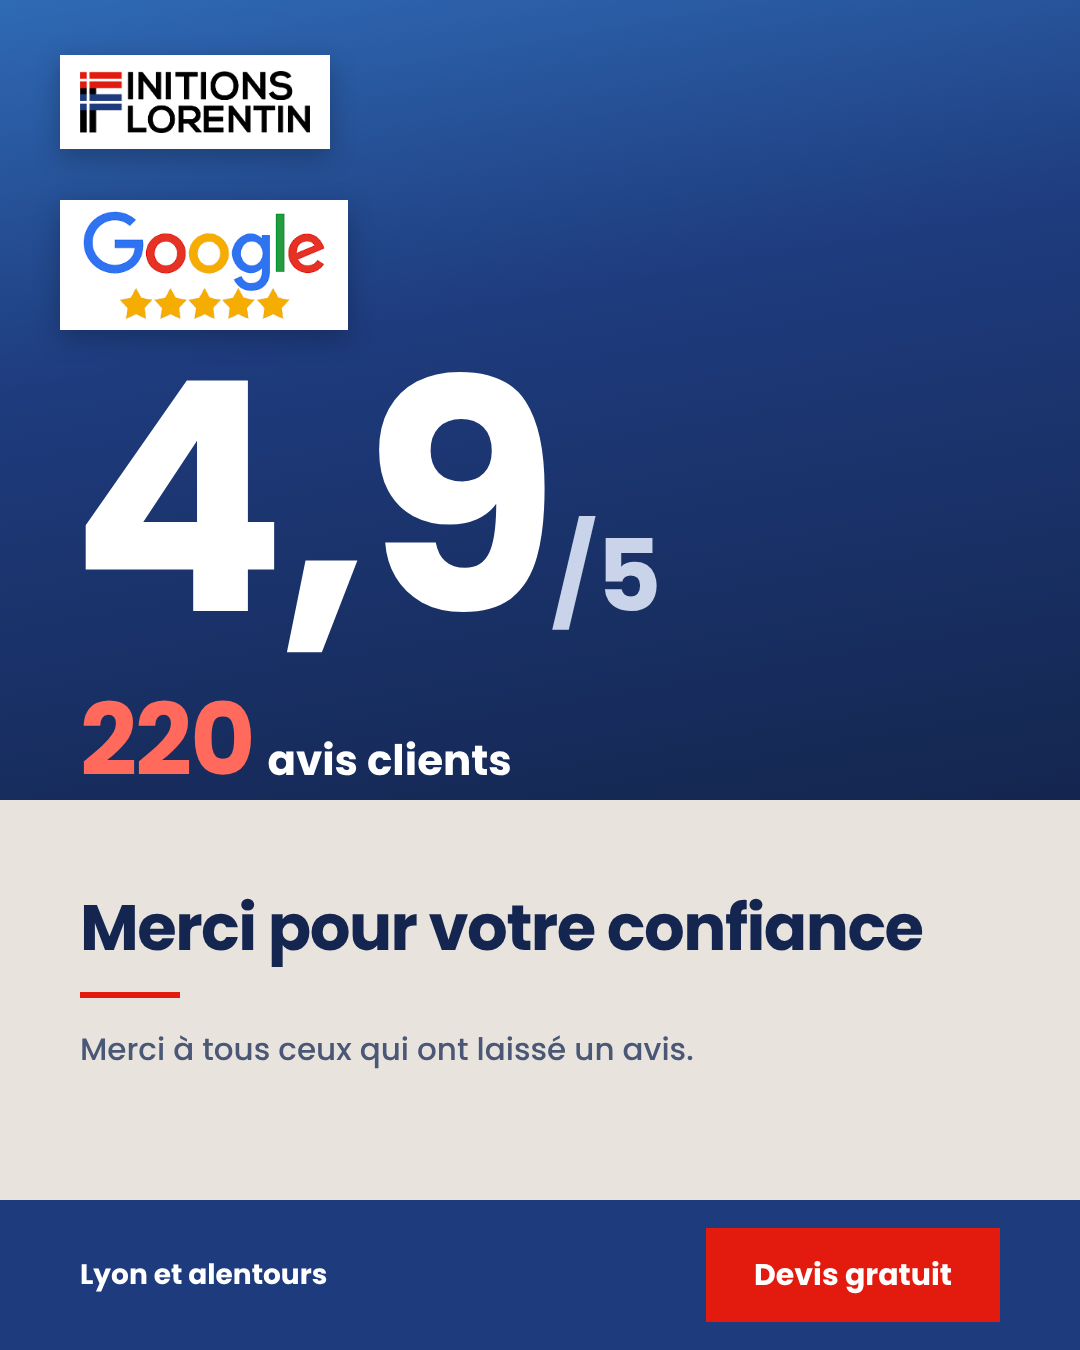
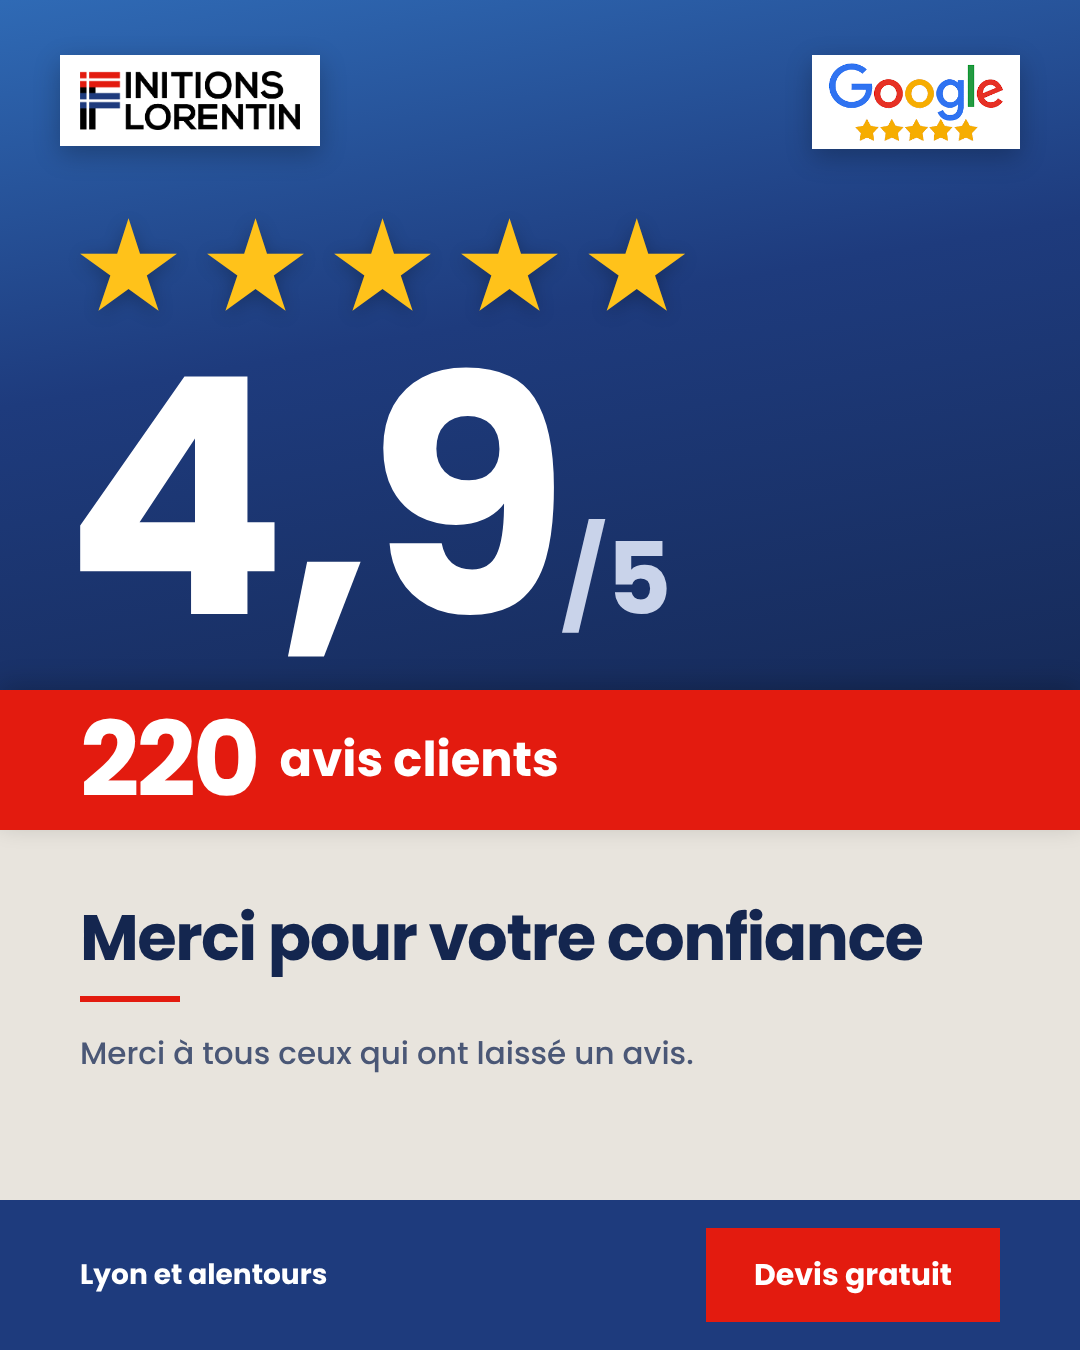
Note Google: bandeau rouge 220 avis, pas de version Google
Claude-Session: https://claude.ai/code/session_01LyxsXe8xqb1EZ7c4QQAmih

diff --git a/tools/note_google_plain.py b/tools/note_google_plain.py
@@ -18,23 +18,29 @@ base=f'''*{{margin:0;box-sizing:border-box}}body{{position:relative;overflow:hid
 def html(note,nb,mode):
     if mode=='ig':
         return f'''<style>{base}body{{width:1080px;height:1350px}}
-.blk{{left:0;top:0;width:1080px;height:800px}}.lg{{left:60px;top:55px;width:270px;padding:16px 20px}}
-.gl{{left:60px;top:200px;height:130px;}}.num{{left:70px;top:355px;font-size:320px}}.num small{{font-size:100px}}
-.avis{{left:80px;top:665px;font-size:42px}}.big{{font-size:100px}}
-.t{{left:80px;top:880px;font-size:64px}}.rule{{left:80px;top:992px}}.s{{left:80px;top:1026px;font-size:31px}}
+.blk{{left:0;top:0;width:1080px;height:830px}}.lg{{left:60px;top:55px;width:260px;padding:16px 20px}}
+.gl{{right:60px;left:auto;top:55px;height:94px}}
+.stars{{position:absolute;left:70px;top:215px;font-size:112px;letter-spacing:10px;color:#FFC21A;line-height:1;text-shadow:0 4px 18px rgba(0,0,0,.25)}}
+.num{{left:64px;top:350px;font-size:330px}}.num small{{font-size:100px}}
+.band{{position:absolute;left:0;top:690px;width:1080px;height:140px;background:#E31B0F;display:flex;align-items:center;padding:0 80px;gap:22px;color:#fff;box-shadow:0 -6px 24px rgba(0,0,0,.2)}}
+.band b{{font-size:104px;font-weight:800;letter-spacing:-3px;line-height:1}}.band span{{font-size:48px;font-weight:700}}
+.t{{left:80px;top:890px;font-size:64px}}.rule{{left:80px;top:996px}}.s{{left:80px;top:1030px;font-size:31px}}
 .foot{{left:0;right:0;height:150px;padding:0 80px}}.btn{{font-size:30px;padding:24px 48px}}</style>
 <body><div class="blk"></div><img class="lg" src="{R.L}"><img class="gl" src="{GL}">
-<div class="num">{note}<small>/5</small></div><div class="avis"><span class="big">{nb}</span> avis clients</div>
+<div class="stars">★★★★★</div><div class="num">{note}<small>/5</small></div>
+<div class="band"><b>{nb}</b><span>avis clients</span></div>
 <div class="t">Merci pour votre confiance</div><div class="rule"></div><div class="s">Merci à tous ceux qui ont laissé un avis.</div>
 <div class="foot"><div class="fl">Lyon et alentours</div><div class="btn">Devis gratuit</div></div>'''
     return f'''<style>{base}body{{width:1200px;height:900px}}
-.blk{{left:0;top:0;width:620px;height:900px}}.gl{{left:60px;top:70px;height:120px}}
-.num{{left:50px;top:230px;font-size:260px}}.num small{{font-size:80px}}.avis{{left:60px;top:560px;font-size:34px}}.big{{font-size:110px}}
-.lg{{left:680px;top:60px;width:250px;padding:14px 18px}}.t{{left:680px;top:300px;font-size:46px;white-space:normal;width:480px;line-height:1.1}}
-.rule{{left:680px;top:450px}}.s{{left:680px;top:486px;width:470px;font-size:27px;line-height:1.35}}
-.foot{{left:620px;right:0;height:120px;padding:0 40px}}.btn{{font-size:24px;padding:20px 28px}}</style>
-<body><div class="blk"></div><img class="gl" src="{GL}"><div class="num">{note}<small>/5</small></div>
-<div class="avis"><span class="big">{nb}</span> avis clients</div><img class="lg" src="{R.L}">
+.blk{{left:0;top:0;width:640px;height:900px}}.gl{{left:60px;top:55px;height:90px}}
+.stars{{position:absolute;left:60px;top:170px;font-size:76px;letter-spacing:8px;color:#FFC21A;line-height:1}}
+.num{{left:50px;top:270px;font-size:250px}}.num small{{font-size:78px}}
+.band{{position:absolute;left:0;top:600px;width:640px;height:130px;background:#E31B0F;display:flex;align-items:center;padding:0 60px;gap:18px;color:#fff}}.band b{{font-size:92px;font-weight:800;letter-spacing:-3px;line-height:1}}.band span{{font-size:36px;font-weight:700}}
+.lg{{left:700px;top:60px;width:250px;padding:14px 18px}}.t{{left:700px;top:300px;font-size:46px;white-space:normal;width:460px;line-height:1.1}}
+.rule{{left:700px;top:450px}}.s{{left:700px;top:486px;width:450px;font-size:27px;line-height:1.35}}
+.foot{{left:640px;right:0;height:120px;padding:0 40px}}.btn{{font-size:24px;padding:20px 28px}}</style>
+<body><div class="blk"></div><img class="gl" src="{GL}"><div class="stars">★★★★★</div><div class="num">{note}<small>/5</small></div>
+<div class="band"><b>{nb}</b><span>avis clients</span></div><img class="lg" src="{R.L}">
 <div class="t">Merci pour votre confiance</div><div class="rule"></div><div class="s">Merci à tous ceux qui ont laissé un avis.</div>
 <div class="foot"><div class="fl">Lyon et alentours</div><div class="btn">Devis gratuit</div></div>'''
 async def main(note,nb,out,mode):

diff --git a/README.md b/README.md
@@ -232,3 +232,5 @@ Importance : haute. Il manque la vraie note et le nombre d'avis (ne rien invente
 
 ## POST ÉQUIPE (23/11)
 Post « Anthony & Jordan D'Orazio, gérants » programmé le 24/11 à 8h (IG/FB/LinkedIn page). Outil : tools/duo_equipe.py, visuel ig/equipe/duo_anthony_jordan.png. Pas de dates précises ni d'histoire du père sur l'image. Accord de Jordan non confirmé explicitement (photo déjà dans la plaquette). LinkedIn perso : seulement si Anthony le demande (1re personne).
+
+NOTE GOOGLE (décision 23/11) : post 4,9/5 · 220 avis uniquement sur IG/FB/LinkedIn page (PAS sur la fiche Google, redondant). Visuel : tools/note_google_plain.py → ig/avis/note_google_ig.png (bandeau rouge « 220 avis clients »).
